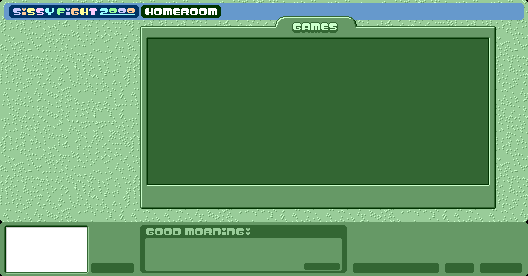
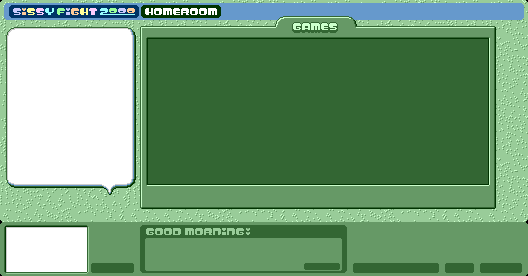
added global g.gameScale for pixel doubling; starting to think about support for multiple schools

Changed region(s): [[0.0, 0.087, 0.2727, 0.6957]]

diff --git a/public/client/Homeroom.js b/public/client/Homeroom.js
@@ -19,15 +19,58 @@ var p = Homeroom.prototype = new createjs.Container();
 		this.prepareAssets();
 		
 		this.addChild(this.assets.homeroom_bg.clone());
+		
+		// mess with DOMElement (why didn't they do this, at least?)
+		// TODO: make my own subclass of DOMElement
+		createjs.DOMElement.prototype.setFakeScale = function(s) {
+			this.fakeScale = s;
+		}
+		createjs.DOMElement.prototype.setPosition = function(x, y) {
+			this.htmlElement.style.position = 'absolute';
+			this.htmlElement.style.left = 	((this.fakeScale ? this.fakeScale : 1) * x) + 'px';
+			this.htmlElement.style.top = 	((this.fakeScale ? this.fakeScale : 1) * y) + 'px';
+		}
+		createjs.DOMElement.prototype.setSize = function(w, h) {
+			this.htmlElement.style.position = 'absolute';
+			this.htmlElement.style.width = 	((this.fakeScale ? this.fakeScale : 1) * w) + 'px';
+			this.htmlElement.style.height =	((this.fakeScale ? this.fakeScale : 1) * h) + 'px';
+		}
+		createjs.DOMElement.prototype.setVisible = function(v) {
+			if (v) this.htmlElement.style.visibility = 'visible';
+			else this.htmlElement.style.visibility = 'hidden';
+		}
 		this.chatRecord = new createjs.DOMElement(document.getElementById('homeroomChat'));
 		this.chatEntry = new createjs.DOMElement(document.getElementById('homeroomTextEntry'));
 	}
 	
 	
 	p.start = function() {
+		/*
+		this.chatEntry.htmlElement.style.position = 'absolute';
+		this.chatEntry.htmlElement.style.left = "7px";
+		this.chatEntry.htmlElement.style.top = "228px";
+		this.chatEntry.htmlElement.style.width = "79px";
+		this.chatEntry.htmlElement.style.height = "43px";
+		*/
+		this.chatEntry.setFakeScale(g.gameScale);
+		this.chatEntry.setPosition(6, 227);
+		this.chatEntry.setSize(78, 42);
+		this.chatEntry.setVisible(true);
 		
+		this.chatRecord.setFakeScale(g.gameScale);
+		this.chatRecord.setPosition(12,33);
+		this.chatRecord.setSize(120, 150);
+		this.chatRecord.setVisible(true);
+		
+		this.chatRecord.htmlElement.innerHTML = "I like bananas<br/>Because they have no bones!"
 	}
 
+
+	// clean up
+	p.destroy = function() {
+		this.chatEntry.setVisible(false);
+		this.chatRecord.setVisible(false);
+	}
 
 
 	p.prepareAssets = function() {

diff --git a/public/client/Main.js b/public/client/Main.js
@@ -21,7 +21,7 @@ var p = Main.prototype = new createjs.Container();
 		this.Container_initialize();
 	}
 	
-	p.start = function(SockJS, auth) {
+	p.start = function(SockJS, auth, school) {
 		this.getStage().enableMouseOver();
 		
 		// set up tick-based update
@@ -32,7 +32,7 @@ var p = Main.prototype = new createjs.Container();
 		
 		this.loader = new sf.Loader();
 		this.addChild(this.loader);
-		this.loader.start(SockJS, auth);
+		this.loader.start(SockJS, auth, school);
 		
 		this.loader.addEventListener("error", this.loadError.bind(this));
 		this.loader.addEventListener("complete", this.loaded.bind(this));

diff --git a/controllers/controllers.js b/controllers/controllers.js
@@ -80,7 +80,7 @@ module.exports = function(app) {
 			// send a token to the page that can be used to associate the socket with the user session
 			var token = req.session.user.nickname + Math.random();
 			req.session.token = token;
-			res.render('game', {user:req.session.user, token:req.session.token, session:req.session.id});
+			res.render('game', {user:req.session.user, token:req.session.token, session:req.session.id, school:0});
 		}
 		else {
 			req.session.flash = {login: "Please log in"};
